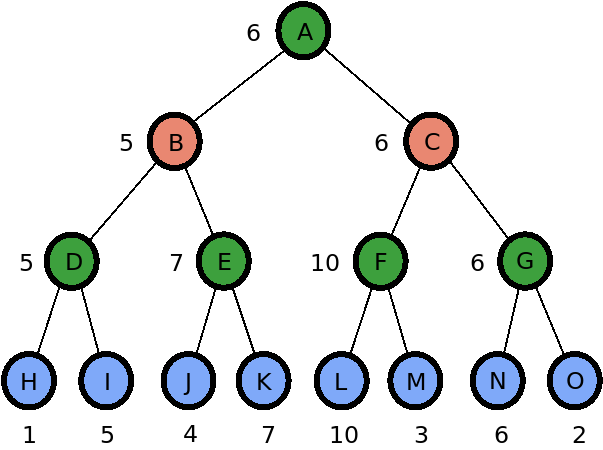
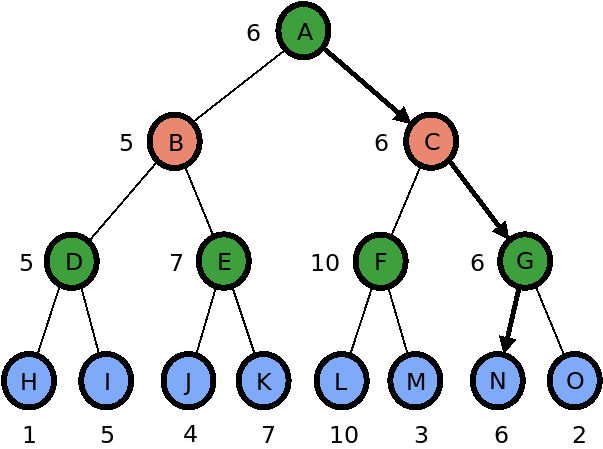
Continue the "Adversarial Search" section

diff --git a/manuscript/ArtificialIntelligence/adversarial-search.md b/manuscript/ArtificialIntelligence/adversarial-search.md
@@ -55,16 +55,16 @@
 
 Каждому терминальному состоянию соответствует пара выигрышей для игроков MAX и MIN. Поскольку игра с нулевой суммой, то часто терминальному узлу присваивают выигрыш только игрока MAX. Его достаточно для правильной работы алгоритма минимакс.
 
-Рассмотрим пример работы алгоритма минимакс. Иллюстрация 2-11 демонстрирует дерево поиска и порядок обхода его узлов.
+Рассмотрим пример работы алгоритма минимакс. Иллюстрация 2-12 демонстрирует дерево поиска и порядок обхода его узлов.
 
-{caption: "Иллюстрация 2-11. Поиск по минимакс алгоритму", height: "50%", width: "100%"}
+{caption: "Иллюстрация 2-12. Поиск по минимакс алгоритму", height: "50%", width: "100%"}
 ![Минимакс алгоритм](images/ArtificialIntelligence/minimax-tree.png)
 
 На иллюстрации приведена игра, в которой участники делают три хода. Первым ходит игрок MAX в узле A. Затем ходит игрок MIN в узлах B и C. Завершает игру ход MAX в узлах D, E, F, G.
 
 Цвет узла соответствует игроку, который должен выполнить ход. В зелёных узлах ходит игрок MAX, а в красных — MIN. Терминальные узлы, в которых игра заканчивается, отмечены синим цветом.
 
-Таблица 2-17 демонстрирует шаги алгоритма минимакс для дерева поиска с иллюстрации 2-11. Для каждого шага указан посещаемый узел и его новое минимаксное значение.
+Таблица 2-17 демонстрирует шаги алгоритма минимакс для дерева поиска с иллюстрации 2-12. Для каждого шага указан посещаемый узел и его новое минимаксное значение.
 
 {caption: "Таблица 2-17. Шаги алгоритма минимакс", width: "70%"}
 | Шаг | Посещённый узел | Новое минимаксное значение |
@@ -111,11 +111,11 @@
 
 * Если в узле ходит игрок MIN, присвоить ему наименьшее из минимаксных значений дочерних узлов.
 
-Согласно этому правилу, узлу D на иллюстрации 2-11 присваивается наибольшее минимаксное значение 5 дочернего узла I. Это происходит потому, что в узле D ходит игрок MAX.
+Согласно этому правилу, узлу D на иллюстрации 2-12 присваивается наибольшее минимаксное значение 5 дочернего узла I. Это происходит потому, что в узле D ходит игрок MAX.
 
 В узле B ходит игрок MIN, поэтому ему присваивается наименьшее минимаксное значение 5 дочернего узла D.
 
-Аналогично алгоритм минимакс присваивает минимаксные значения всем узлам дерева. После этого алгоритм составляет решение, которое представляет собой путь от корневого узла до терминального узла с наилучшим гарантированным выигрышем для игрока MAX. В нашем примере с иллюстрации 2-11 это путь:
+Аналогично алгоритм минимакс присваивает минимаксные значения всем узлам дерева. После этого алгоритм составляет решение, которое представляет собой путь от корневого узла до терминального узла с наилучшим гарантированным выигрышем для игрока MAX. В нашем примере с иллюстрации 2-12 этот путь отмечен чёрной стрелкой:
 
 A -> C -> G -> N
 
@@ -133,6 +133,13 @@ A -> C -> G -> N
 
 Алгоритм минимакс успешно находит решения игр с небольшим коэффициентом ветвления, например крестики-нолики. Для более сложных игр вроде шахмат и го алгоритм работает слишком медленно. Его скорости не хватает даже для того, чтобы просчитать следующие 4-5 ходов за разумное время.
 
-Проблему медленной работы алгоритма минимакс решает метод альфа-бета отсечения.
+Проблему медленной работы алгоритма минимакс решает метод **альфа-бета отсечения**.
 
-### Альфа-бета-отсечение
+### Альфа-бета отсечение
+
+Метод альфа-бета отсечения также известен, как [**альфа-бета алгоритм**](https://ru.wikipedia.org/wiki/Альфа-бета-отсечение). Этот метод применяется к алгоритму минимакс для оптимизации. Благодаря отсечению, в лучшем случае можно сократить число проверяемых узлов наполовину. При этом алгоритмы альфа-бета и минимакс гарантированно дают одинаковый результат.
+
+Рассмотрим альфа-бета алгоритм на примере игры с иллюстрации 2-12. Работу алгоритма демонстрирует иллюстрация 2-13.
+
+{caption: "Иллюстрация 2-13. Поиск по алгоритму альфа-бета", height: "50%", width: "100%"}
+![Алгоритм альфа-бета](images/ArtificialIntelligence/alpha-beta-pruning-tree.png)

diff --git a/manuscript/ArtificialIntelligence/classical-search.md b/manuscript/ArtificialIntelligence/classical-search.md
@@ -307,7 +307,7 @@
 |  | |
 | 6 | Обратное | E, C, K |
 
-Алгоритм останавливается на 6-ой итерации, когда прямой и обратный поиск встречаются в узле E. Далее алгоритм объединяет оба результата в один: D -> B -> E -> F -> J.
+Алгоритм останавливается на 6-ой итерации, когда прямой и обратный поиск встречаются в узле E. Далее алгоритм объединяет оба результата в один: D -> B -> E -> F -> J. Этот путь отмечен на иллюстрации 2-9 чёрной стрелкой.
 
 Достоинства двунаправленного поиска:
 
@@ -380,9 +380,11 @@
 | H | 0 |
 | I | 40 |
 
-Жадный поиск по первому наилучшему совпадению ориентируется только на значения эвристической функции из таблицы 2-14. Поэтому он найдёт следующий путь:
+Жадный поиск по первому наилучшему совпадению ориентируется только на значения эвристической функции из таблицы 2-14. Поэтому алгоритм найдёт следующий путь:
 
 A -> C -> F -> H
+
+Он отмечен чёрной стрелкой на иллюстрации 2-10.
 
 На первом шаге алгоритм выбирает между узлами B и C. Согласно эвристической функции из таблицы 2-14, узел C находится ближе к целевому узлу, чем B. Расстояние C-H равно 25, а B-H 35.
 
@@ -414,7 +416,12 @@ A -> C -> F -> H
 f(n) = g(n) + h(n)
 ```
 
-Применим поиск A* для дерева на иллюстрации 2-10. Пусть значения эвристической функции будут такими же, как в таблице 2-14. В этом случае алгоритм поиска выполнит шаги из таблицы 2-15.
+Иллюстрация 2-11 демонстрирует порядок обхода узлов дерева поиска.
+
+{caption: "Иллюстрация 2-11. Порядок обхода узлов при поиске А*", height: "50%", width: "100%"}
+![Поиск А*](images/ArtificialIntelligence/a-star-tree.png)
+
+Пусть значения эвристической функции будут такими же, как в таблице 2-14. В этом случае алгоритм поиска выполнит шаги из таблицы 2-15.
 
 {caption: "Таблица 2-15. Шаги поиска A*", width: "100%"}
 | Шаг | Узел | g(n) | h(n) | f(n) |
@@ -457,6 +464,12 @@ f(I) = g(I) + h(I) = 60 + 40 = 100
 ```
 
 Алгоритм перейдёт в целевой узел H с `f(H) = 50`, а не в узел I с `f(I) = 100`.
+
+Таким образом поиск А* найдёт следующее решение:
+
+A -> C -> G -> H
+
+Этот путь отмечен чёрной стрелкой на иллюстрации 2-11.
 
 Достоинства поиска A*:
 
